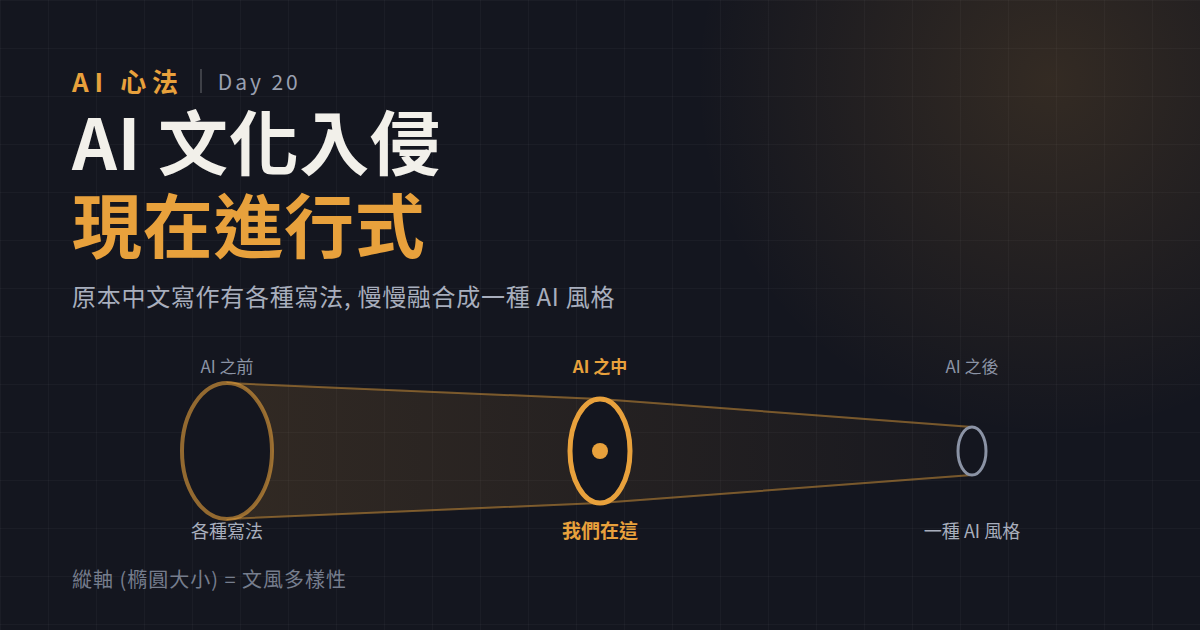
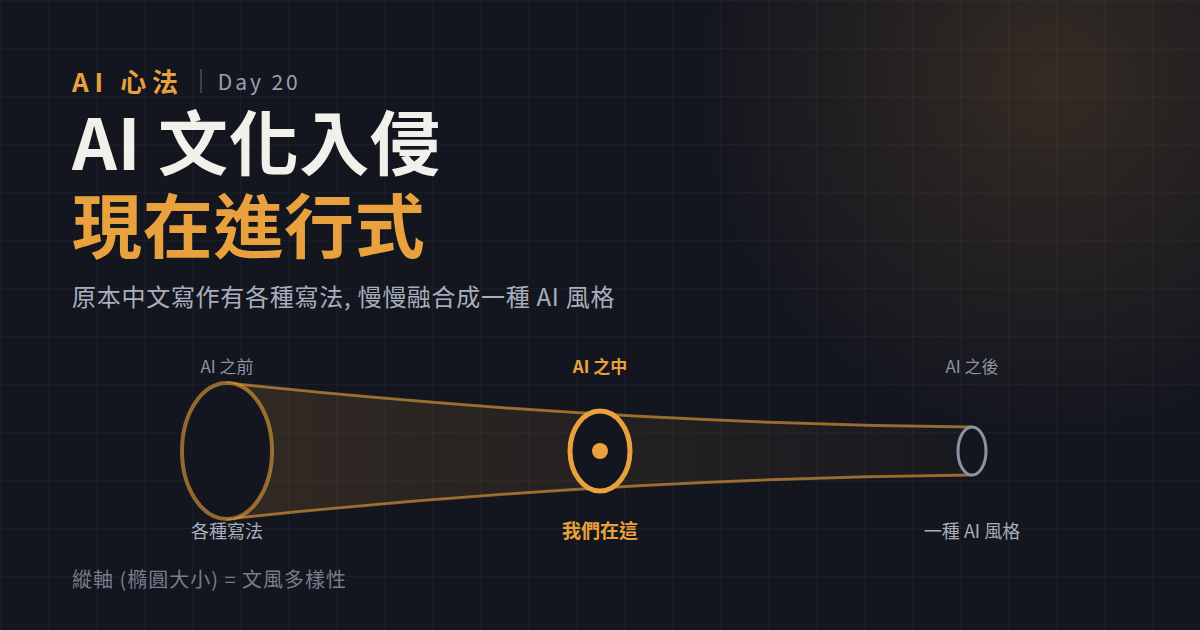
Day 20 cover: 隧道曲線更明顯 (向內收斂的 funnel)
- 上下邊緣改用 quadratic Bezier (Q), 控制點拉到中間下方/上方
  - 上緣 M 155,30 Q 528,70 900,74 (向下彎, 中段 y 從 52 → 70)
  - 下緣 M 155,166 Q 528,126 900,122 (向上彎)
- 中段橢圓 ry 52→40, 讓橢圓邊剛好落在曲線上, 不被穿過
- 邊緣線加粗 (2→3) + 加亮 (opacity 66→88) 讓曲線更有存在感
- fill polygon 配合新曲線同步

視覺: 可以看出明顯的「漏斗向內收斂」, 中段橢圓卡在喉嚨最窄處

Changed region(s): [[0.185, 0.6032, 0.8017, 0.6937], [0.185, 0.754, 0.8017, 0.8444]]

diff --git a/05-notes/ironman/assets/cover-day20.html b/05-notes/ironman/assets/cover-day20.html
@@ -37,12 +37,14 @@ text{font-family:"Noto Sans CJK TC",sans-serif}
       </linearGradient>
     </defs>
 
-    <!-- 隧道外殼: 連接三個橢圓的上下緣, 形成漸窄的 funnel -->
-    <polygon points="155,30 528,46 900,74 900,122 528,150 155,166"
-             fill="url(#tunnelFill)" stroke="#e8a13c33" stroke-width="2"/>
-    <!-- 強化上下兩條邊緣線 -->
-    <path d="M 155,30 L 528,46 L 900,74" fill="none" stroke="#e8a13c55" stroke-width="2"/>
-    <path d="M 155,166 L 528,150 L 900,122" fill="none" stroke="#e8a13c55" stroke-width="2"/>
+    <!-- 隧道外殼: 曲線版, 向內收斂的 funnel 感 -->
+    <path d="M 155,30 Q 528,70 900,74 L 900,122 Q 528,126 155,166 Z"
+          fill="url(#tunnelFill)" stroke="#e8a13c33" stroke-width="2"/>
+    <!-- 強化上下兩條邊緣曲線 -->
+    <path d="M 155,30 Q 528,70 900,74"
+          fill="none" stroke="#e8a13c88" stroke-width="3"/>
+    <path d="M 155,166 Q 528,126 900,122"
+          fill="none" stroke="#e8a13c88" stroke-width="3"/>
 
     <!-- Phase 1: AI 之前 (大橢圓, 淡色) -->
     <text x="155" y="20" fill="#8b93a5" font-size="17" text-anchor="middle">AI 之前</text>
@@ -50,8 +52,9 @@ text{font-family:"Noto Sans CJK TC",sans-serif}
     <text x="155" y="185" fill="#a8aebd" font-size="18" text-anchor="middle">各種寫法</text>
 
     <!-- Phase 2: AI 之中 (highlighted 金色, 中等大小 + 我們在這 marker) -->
+    <!-- ry 從 52 → 40 讓橢圓邊剛好落在曲線上, 不被曲線穿過 -->
     <text x="528" y="20" fill="#e8a13c" font-size="17" text-anchor="middle" font-weight="700">AI 之中</text>
-    <ellipse cx="528" cy="98" rx="30" ry="52" fill="#14161f" stroke="#e8a13c" stroke-width="5"/>
+    <ellipse cx="528" cy="98" rx="30" ry="40" fill="#14161f" stroke="#e8a13c" stroke-width="5"/>
     <circle cx="528" cy="98" r="8" fill="#e8a13c"/>
     <text x="528" y="185" fill="#e8a13c" font-size="19" text-anchor="middle" font-weight="900">我們在這</text>
 
